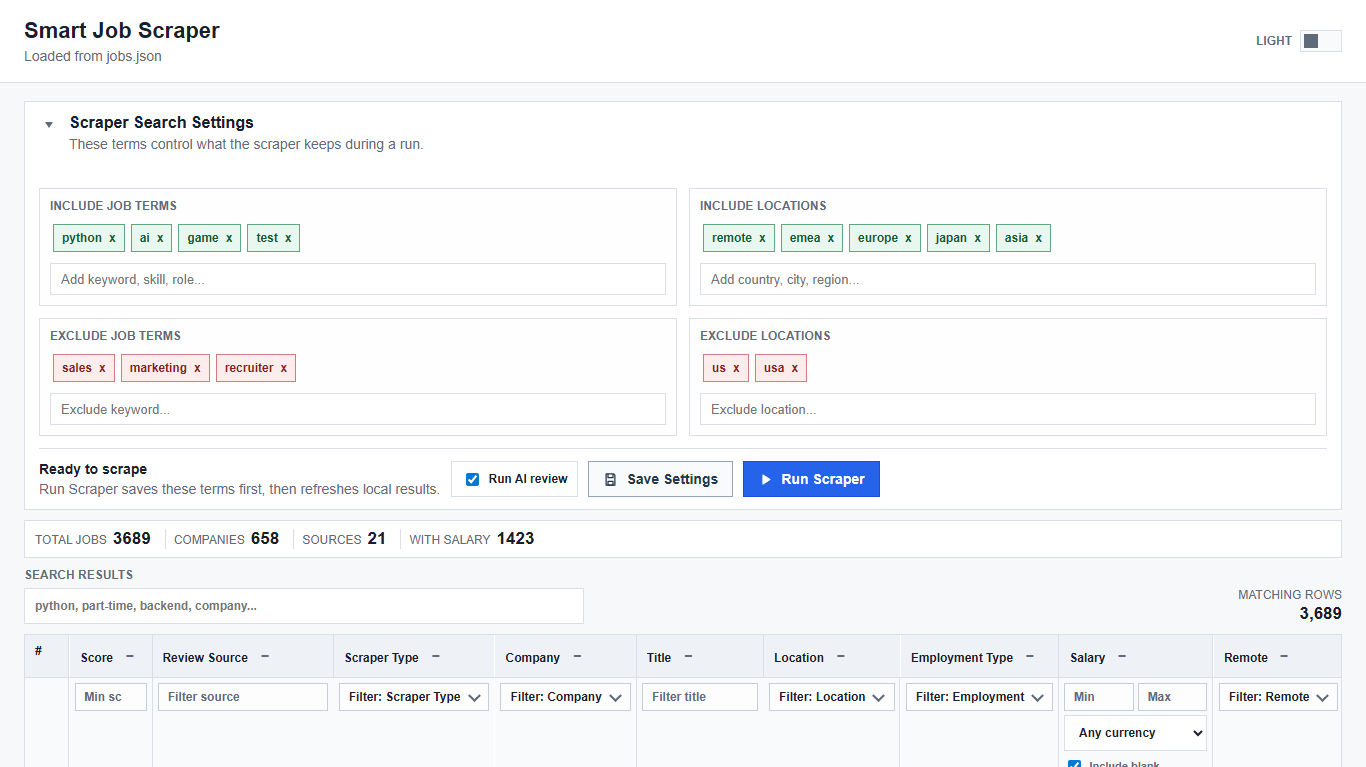
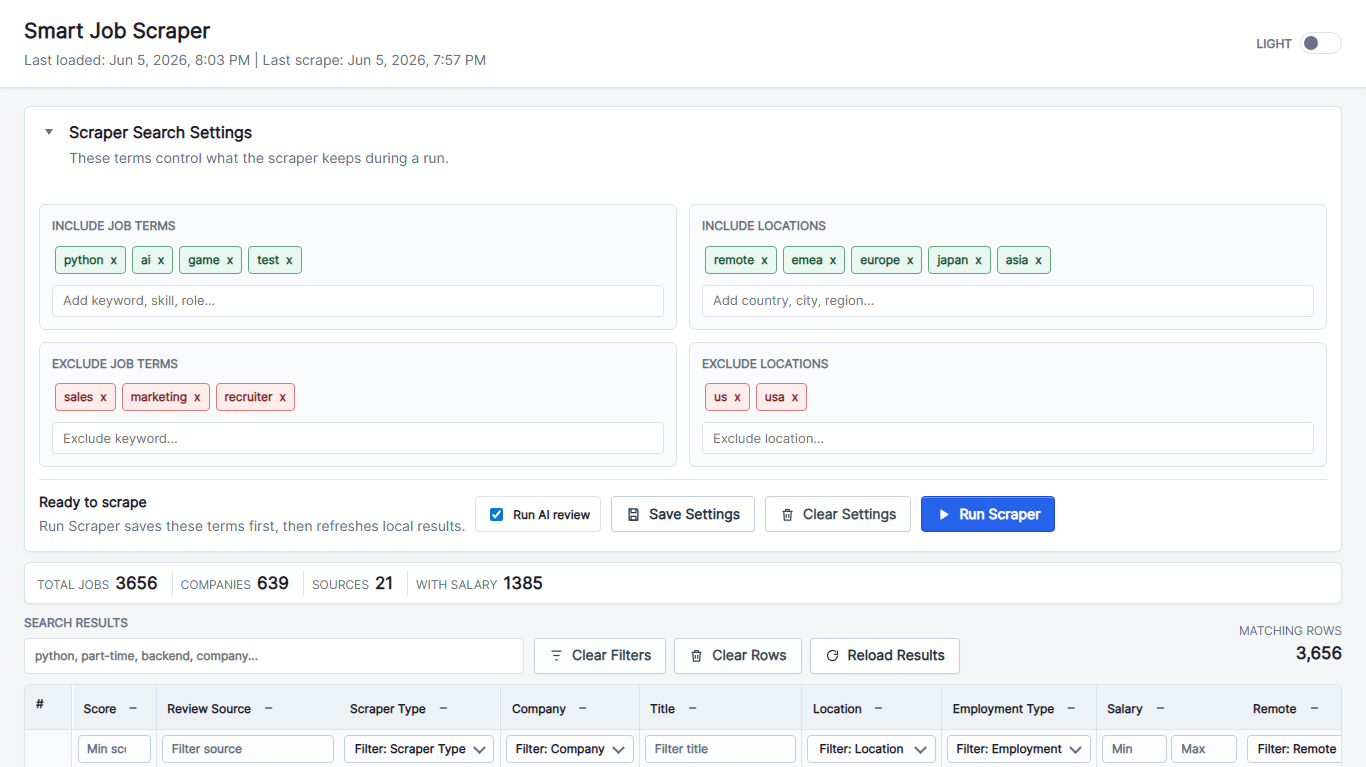
Update image for smart job scraper; Zoom for photos

diff --git a/index.html b/index.html
@@ -363,17 +363,15 @@ Have fun creating your portfolio on this template!!! -->
             </div>
 
             <div class="project-wrapper__image">
-              <a href="https://github.com/BroccoLee07/smart-job-scraper" target="_blank" rel="noopener noreferrer">
-                <div class="thumbnail rounded">
-                  <img
-                    src="./assets/Smart Job Scraper screenshot.png"
-                    class="img-fluid"
-                    alt="Smart Job Scraper dashboard project image"
-                    width="1366"
-                    height="767"
-                  />
-                </div>
-              </a>
+              <div class="thumbnail rounded">
+                <img
+                  src="./assets/Smart Job Scraper screenshot.png"
+                  class="img-fluid"
+                  alt="Smart Job Scraper dashboard project image"
+                  width="1366"
+                  height="767"
+                />
+              </div>
             </div>
           </article>
           <!-- /END Project -->
@@ -414,30 +412,30 @@ Have fun creating your portfolio on this template!!! -->
             </div>
           </article>
 
-          <article class="row" style="grid-template-columns: 1fr;">
-            <div class="project-wrapper__image" style="width: 100%;">
-              <div class="thumbnail rounded">
-                <img
-                  src="./assets/Professional Work - 1.png"
-                  class="img-fluid"
-                  alt="Swiftpos and Floramis professional experience"
-                  width="750"
-                  height="495"
-                />
+          <article class="row" style="grid-template-columns: 1fr; margin-bottom: 8rem;">
+            <div class="professional-image-grid">
+              <div class="project-wrapper__image">
+                <div class="thumbnail rounded">
+                  <img
+                    src="./assets/Professional Work - 1.png"
+                    class="img-fluid"
+                    alt="Swiftpos and Floramis professional experience"
+                    width="750"
+                    height="495"
+                  />
+                </div>
               </div>
-            </div>
-          </article>
 
-          <article class="row" style="grid-template-columns: 1fr;">
-            <div class="project-wrapper__image" style="width: 100%;">
-              <div class="thumbnail rounded">
-                <img
-                  src="./assets/Professional Work - 2.png"
-                  class="img-fluid"
-                  alt="Accenture and AWS Philippines professional experience"
-                  width="768"
-                  height="449"
-                />
+              <div class="project-wrapper__image">
+                <div class="thumbnail rounded">
+                  <img
+                    src="./assets/Professional Work - 2.png"
+                    class="img-fluid"
+                    alt="Accenture and AWS Philippines professional experience"
+                    width="768"
+                    height="449"
+                  />
+                </div>
               </div>
             </div>
           </article>
@@ -559,6 +557,188 @@ Have fun creating your portfolio on this template!!! -->
 
     <script>
       document.getElementById("year").textContent = new Date().getFullYear()
+    </script>
+    <script>
+      const imageViewerStyles = document.createElement("style");
+      imageViewerStyles.textContent = `
+        .project-wrapper__image img {
+          cursor: zoom-in;
+        }
+
+        .professional-image-grid {
+          display: grid;
+          grid-template-columns: repeat(2, minmax(0, 1fr));
+          gap: 2rem;
+          align-items: start;
+        }
+
+        .professional-image-grid .project-wrapper__image {
+          width: 100%;
+        }
+
+        .image-viewer {
+          position: fixed;
+          inset: 0;
+          z-index: 1000;
+          display: none;
+          align-items: center;
+          justify-content: center;
+          background: rgba(15, 23, 42, 0.82);
+          padding: 2rem;
+        }
+
+        .image-viewer.is-open {
+          display: flex;
+        }
+
+        .image-viewer img {
+          max-width: 92vw;
+          max-height: 88vh;
+          transform: translate(var(--image-pan-x, 0px), var(--image-pan-y, 0px)) scale(var(--image-scale, 1));
+          transform-origin: center;
+          cursor: zoom-in;
+          user-select: none;
+          box-shadow: 0 2rem 5rem rgba(0, 0, 0, 0.35);
+        }
+
+        .image-viewer__close {
+          position: fixed;
+          top: 1.6rem;
+          right: 1.6rem;
+          width: 4.4rem;
+          height: 4.4rem;
+          border: 0;
+          border-radius: 50%;
+          background: #f2f2f2;
+          color: #333;
+          font-size: 3rem;
+          line-height: 1;
+          cursor: pointer;
+        }
+
+        @media(max-width: 56.25em) {
+          .professional-image-grid {
+            grid-template-columns: 1fr;
+          }
+        }
+      `;
+      document.head.appendChild(imageViewerStyles);
+
+      const imageViewer = document.createElement("div");
+      imageViewer.className = "image-viewer";
+      imageViewer.innerHTML = `
+        <button class="image-viewer__close" type="button" aria-label="Close image preview">&times;</button>
+        <img alt="" />
+      `;
+      document.body.appendChild(imageViewer);
+
+      const viewerImage = imageViewer.querySelector("img");
+      const viewerClose = imageViewer.querySelector(".image-viewer__close");
+      let viewerScale = 1;
+      let viewerPanX = 0;
+      let viewerPanY = 0;
+      let isViewerDragging = false;
+      let viewerDragMoved = false;
+      let viewerDragStartX = 0;
+      let viewerDragStartY = 0;
+      let viewerDragBaseX = 0;
+      let viewerDragBaseY = 0;
+
+      function applyViewerTransform() {
+        viewerImage.style.setProperty("--image-scale", viewerScale);
+        viewerImage.style.setProperty("--image-pan-x", `${viewerPanX}px`);
+        viewerImage.style.setProperty("--image-pan-y", `${viewerPanY}px`);
+        viewerImage.style.cursor = viewerScale > 1 ? "grab" : "zoom-in";
+      }
+
+      function setViewerScale(nextScale, event) {
+        viewerScale = nextScale;
+        viewerImage.style.transition = "transform 120ms ease";
+        if (viewerScale > 1 && event) {
+          const rect = viewerImage.getBoundingClientRect();
+          const originX = ((event.clientX - rect.left) / rect.width) * 100;
+          const originY = ((event.clientY - rect.top) / rect.height) * 100;
+          viewerImage.style.transformOrigin = `${originX}% ${originY}%`;
+          viewerPanX = 0;
+          viewerPanY = 0;
+        } else if (viewerScale === 1) {
+          viewerImage.style.transformOrigin = "center";
+          viewerPanX = 0;
+          viewerPanY = 0;
+        }
+        applyViewerTransform();
+      }
+
+      function closeImageViewer() {
+        imageViewer.classList.remove("is-open");
+        viewerImage.removeAttribute("src");
+        viewerImage.style.transition = "";
+        setViewerScale(1);
+      }
+
+      document.querySelectorAll(".project-wrapper__image img").forEach((image) => {
+        image.addEventListener("click", () => {
+          viewerImage.src = image.currentSrc || image.src;
+          viewerImage.alt = image.alt;
+          setViewerScale(1);
+          imageViewer.classList.add("is-open");
+        });
+      });
+
+      viewerImage.addEventListener("click", (event) => {
+        event.stopPropagation();
+        if (viewerDragMoved) {
+          viewerDragMoved = false;
+          return;
+        }
+        setViewerScale(viewerScale > 1 ? 1 : 1.8, event);
+      });
+
+      viewerImage.addEventListener("mousedown", (event) => {
+        if (viewerScale === 1) return;
+        event.preventDefault();
+        isViewerDragging = true;
+        viewerDragMoved = false;
+        viewerImage.style.transition = "none";
+        viewerDragStartX = event.clientX;
+        viewerDragStartY = event.clientY;
+        viewerDragBaseX = viewerPanX;
+        viewerDragBaseY = viewerPanY;
+        viewerImage.style.cursor = "grabbing";
+      });
+
+      document.addEventListener("mousemove", (event) => {
+        if (!isViewerDragging) return;
+        const deltaX = event.clientX - viewerDragStartX;
+        const deltaY = event.clientY - viewerDragStartY;
+        if (Math.abs(deltaX) > 3 || Math.abs(deltaY) > 3) {
+          viewerDragMoved = true;
+        }
+        viewerPanX = viewerDragBaseX + deltaX;
+        viewerPanY = viewerDragBaseY + deltaY;
+        applyViewerTransform();
+      });
+
+      document.addEventListener("mouseup", () => {
+        if (!isViewerDragging) return;
+        isViewerDragging = false;
+        viewerImage.style.transition = "";
+        viewerImage.style.cursor = viewerScale > 1 ? "grab" : "zoom-in";
+      });
+
+      imageViewer.addEventListener("click", (event) => {
+        if (event.target !== viewerImage && event.target !== viewerClose) {
+          closeImageViewer();
+        }
+      });
+
+      viewerClose.addEventListener("click", closeImageViewer);
+
+      document.addEventListener("keydown", (event) => {
+        if (event.key === "Escape" && imageViewer.classList.contains("is-open")) {
+          closeImageViewer();
+        }
+      });
     </script>
     <script src="./javascript/vanilla-tilt.min.js"></script>
     <script type="text/javascript" src="./javascript/valtilt.js"></script>
